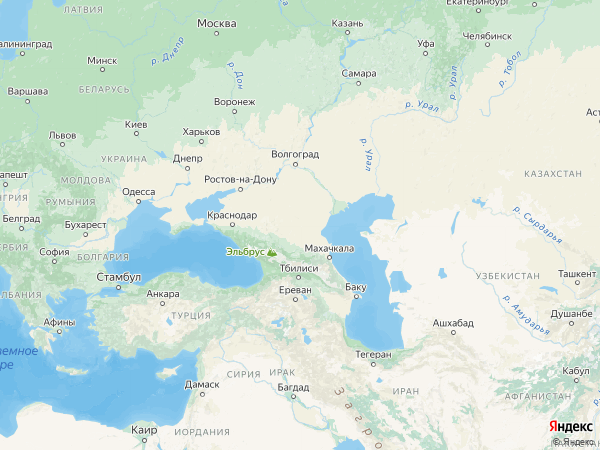
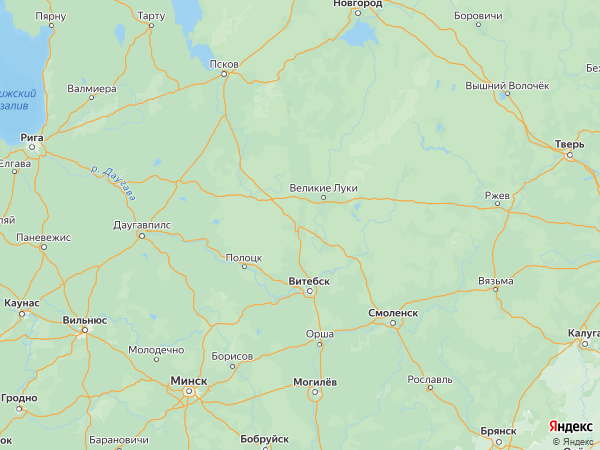
Up/Down/Left/Right keys added

diff --git a/maps1.py b/maps1.py
@@ -15,7 +15,7 @@ class MainWindow(QMainWindow):
         super().__init__(*args, **kwargs)
         uic.loadUi('map1.ui', self)
         self.map_zoom = 5
-        self.map_ll = [45, 45]
+        self.map_ll = [0, 0]
         self.map_l = 'map'
         self.map_key = ''
         self.refresh_map()
@@ -41,14 +41,18 @@ class MainWindow(QMainWindow):
         self.g_map.setPixmap(pixmap)
 
     def keyPressEvent(self, event):
-        if event.key() == Qt.Key_PageUp:
+        if event.key() == Qt.Key_PageUp and self.map_zoom < 10:
             self.map_zoom += 1
-        elif event.key() == Qt.Key_PageDown:
+        elif event.key() == Qt.Key_PageDown and self.map_zoom > 1:
             self.map_zoom -= 1
-        if self.map_zoom < 1:
-            self.map_zoom = 1
-        elif self.map_zoom > 10:
-            self.map_zoom = 10
+        elif event.key() == Qt.Key_Up and self.map_ll[1] < 80:
+            self.map_ll[1] += 1
+        elif event.key() == Qt.Key_Down and self.map_ll[1] > -80:
+            self.map_ll[1] -= 1
+        elif event.key() == Qt.Key_Left and self.map_ll[0] > -180:
+            self.map_ll[0] -= 1
+        elif event.key() == Qt.Key_Right and self.map_ll[0] < 180:
+            self.map_ll[0] += 1
         self.refresh_map()
 
 
